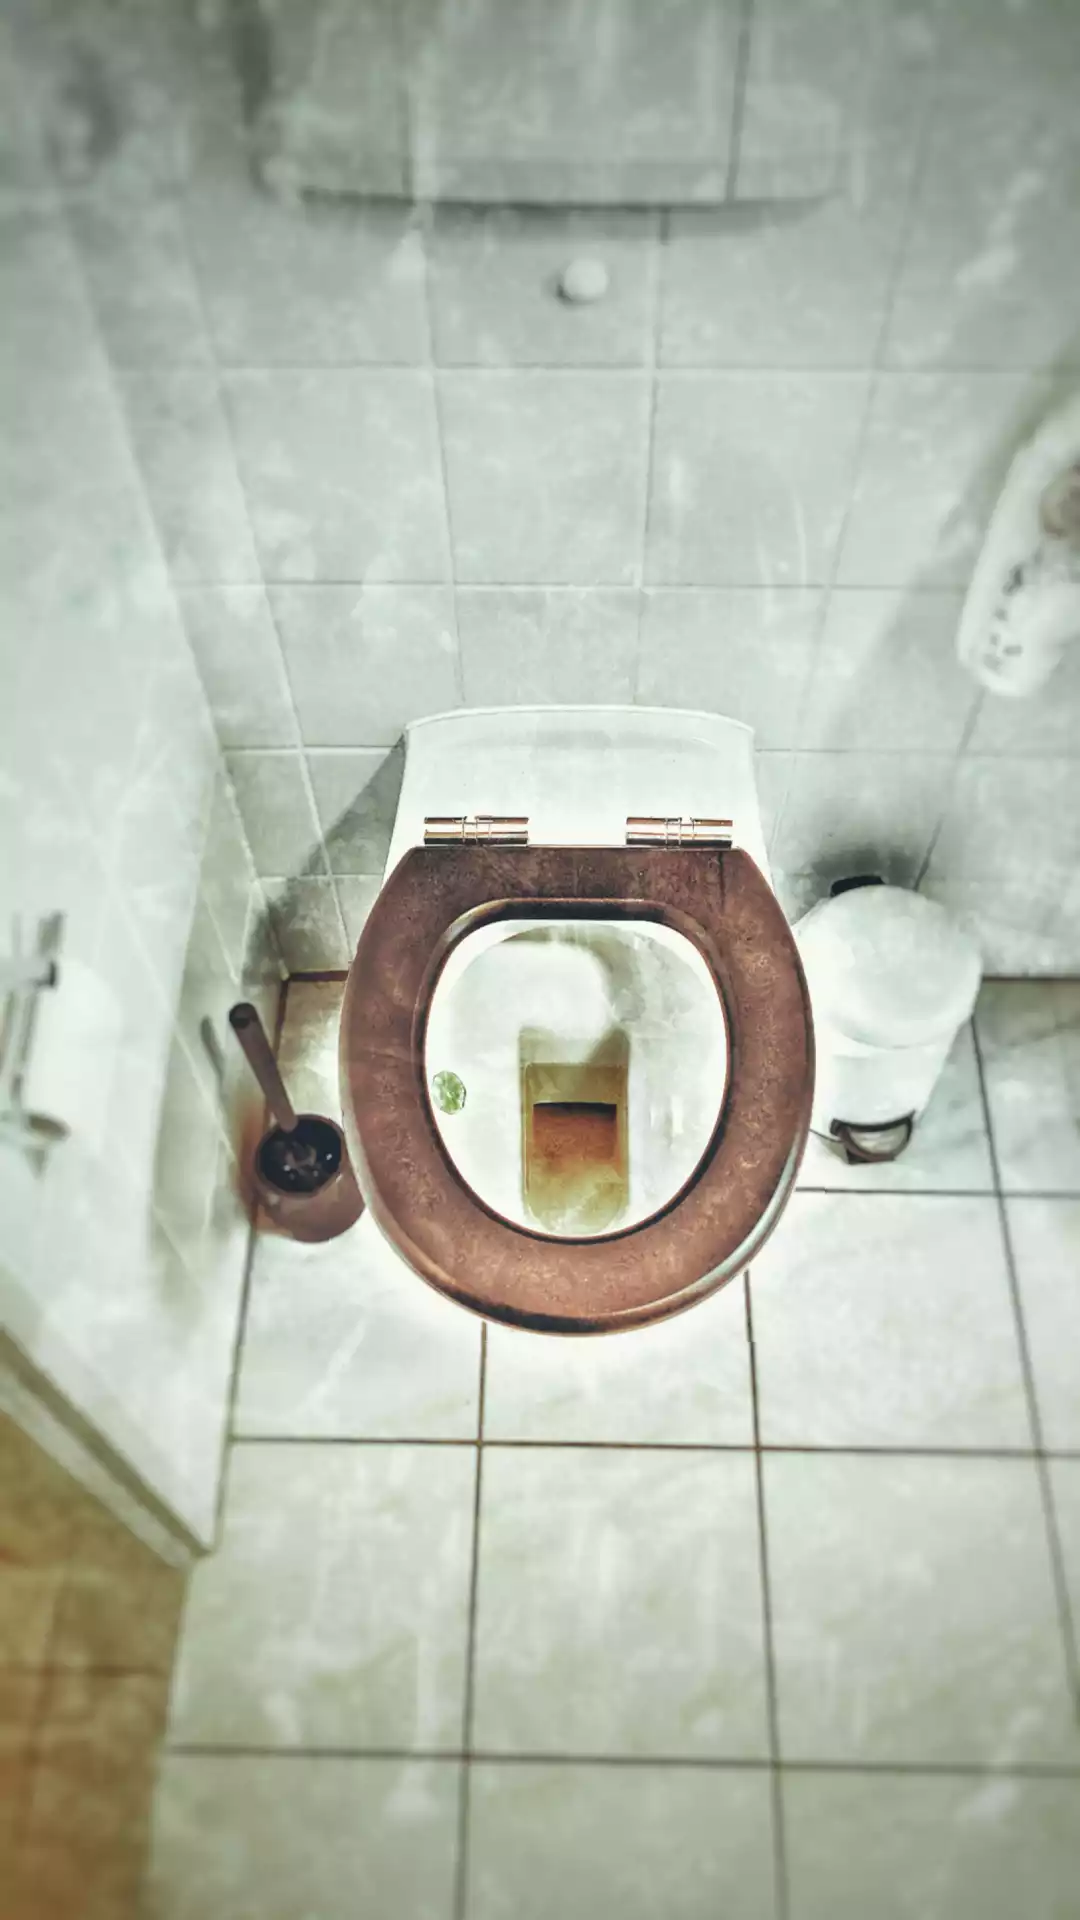
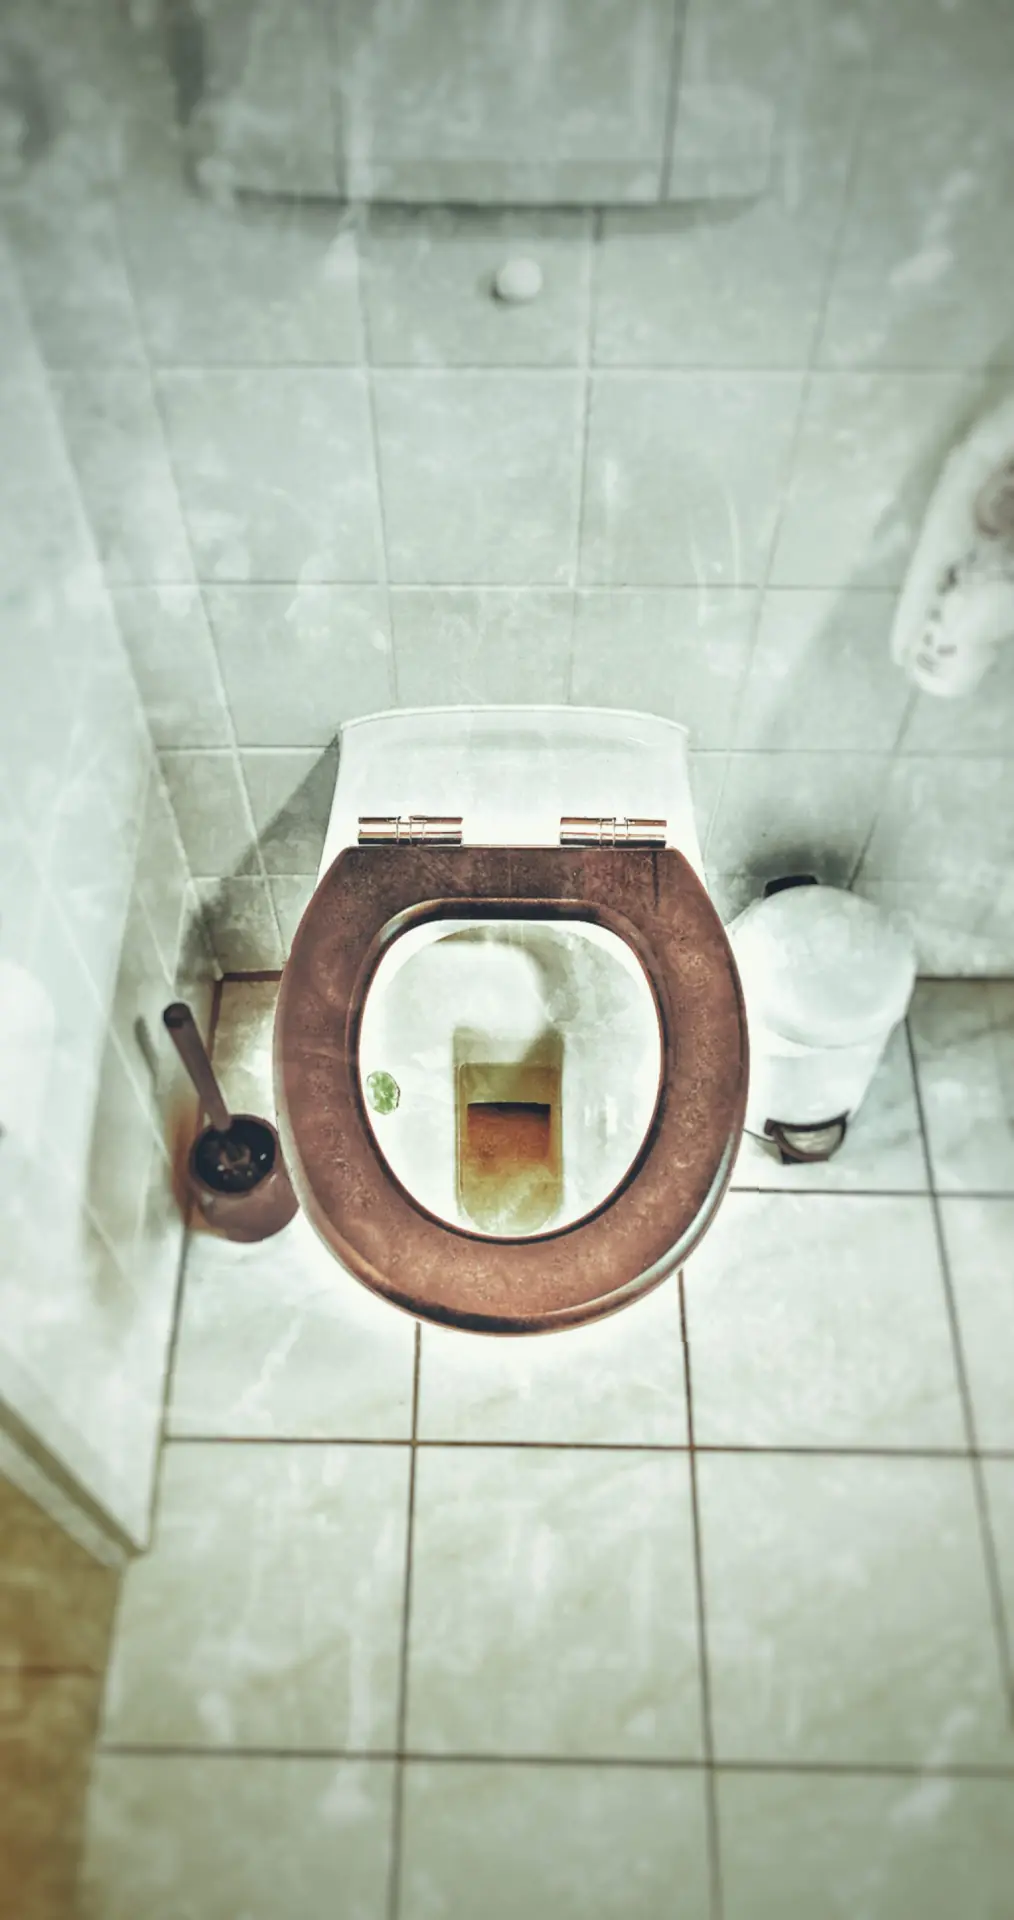
Align start menu background image

diff --git a/lib/views/flip_widget.dart b/lib/views/flip_widget.dart
@@ -25,14 +25,14 @@ class FlipWidget extends StatelessWidget {
         child: SizedBox(
           // original size of background image as reference
           height: 1920,
-          width: 1080,
+          width: 1014,
           child: Stack(children: [
             background,
             Positioned(
               // manually found coords and size (width will be set automatically)
-              top: 845,
-              left: 332,
-              height: 490,
+              top: 835,
+              left: 278,
+              height: 475,
               child: AnimatedBuilder(
                 animation: _controller,
                 builder: (_, __) {
